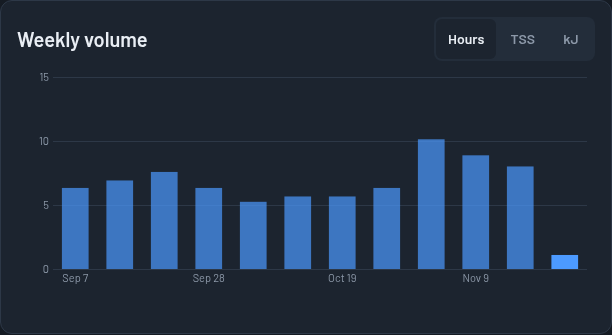
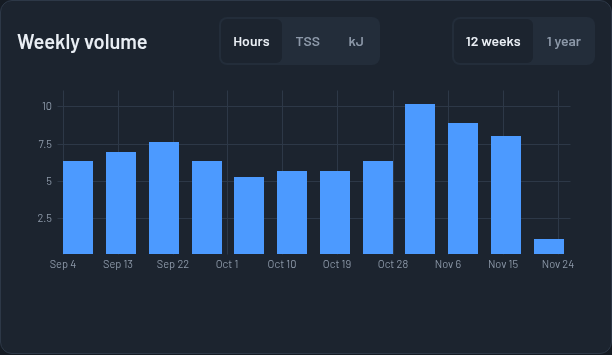
charts: clean-up, workout graph crash fix, docs

diff --git a/docs/walkthrough/capture.js b/docs/walkthrough/capture.js
@@ -125,6 +125,14 @@ async function shots(browser) {
         await page.locator(sel).scrollIntoViewIfNeeded();
         await shotOf(page.locator(sel), name);
     }
+    // a read-out: the mouse over the form chart, 3 weeks back
+    const plot = page.locator('form-card .uc-plot');
+    await plot.scrollIntoViewIfNeeded();
+    const box = await plot.boundingBox();
+    await page.mouse.move(box.x + box.width * 0.62, box.y + box.height * 0.4);
+    await pause(page, 300);
+    await shotOf(page.locator('form-card'), 'training-readout');
+    await page.mouse.move(0, 0);
     // a day with a run from intervals.icu, then planning a workout
     await page.locator('.cal-day.is-today .cal-open').first().click();
     await pause(page, 500);

diff --git a/src/views/workout-graph.js b/src/views/workout-graph.js
@@ -272,6 +272,9 @@ class WorkoutGraph extends HTMLElement {
         const self = this;
         const progress = `<div id="progress" class="progress"></div><div id="progress-active"></div>`;
 
+        // nothing loaded yet (a resize can come first, e.g. on a phone)
+        if(!exists(this.workout?.intervals) && !exists(this.workout?.points)) return;
+
         if(equals(this.type, 'workout')) {
             this.innerHTML = progress +
                 intervalsToGraph(this.workout, this.ftp, this.viewPort);

diff --git a/test/views/workout-graph.test.js b/test/views/workout-graph.test.js
@@ -1,0 +1,12 @@
+/**
+ * @jest-environment jsdom
+ */
+import { WorkoutGraph } from '../../src/views/workout-graph.js';
+
+describe('WorkoutGraph.render', () => {
+    test('a resize before any workout is loaded does not throw', () => {
+        const el = document.createElement('div');
+        const self = Object.assign(el, {type: 'workout', workout: {}, ftp: 250, viewPort: {width: 360, height: 120}, dom: {}});
+        expect(() => WorkoutGraph.prototype.render.call(self)).not.toThrow();
+    });
+});

diff --git a/src/css/components.css b/src/css/components.css
@@ -223,7 +223,7 @@
     display: inline-flex;
     align-items: center;
     justify-content: center;
-    min-height: 40px;
+    min-height: var(--tap);
     min-width: var(--tap);
     padding: 0 var(--space-3);
     border: 0;

diff --git a/docs/walkthrough/README.md b/docs/walkthrough/README.md
@@ -42,8 +42,19 @@ Without a trainer, `npm start` with `?simulate` in the address gives you a simul
 
 <a href="img/training-form.png"><img src="img/training-form.png" alt="The form chart" width="420"></a>
 
-- **Fitness** (42-day load), **fatigue** (7-day load) and **form** (fitness minus fatigue), over the last 90 days.
+- **Fitness** (42-day load), **fatigue** (7-day load) and **form** (fitness minus fatigue), over the last 3 months, a year or all your history.
 - **The dashed part** is a 4-week forecast from your planned workouts. The line below the chart tells you where your plan takes you, for example "form +23 (fresh) on Mon, Dec 21".
+
+### Reading the charts
+
+<a href="img/training-readout.png"><img src="img/training-readout.png" alt="The form chart with the read-out for one day: fitness, fatigue, form and that day's load" width="420"></a>
+
+Every chart on the Training page answers the mouse (or a finger on a phone):
+
+- **Hover** for a read-out of that day, week or duration: the values, and where they came from (the ride behind a power-curve record, the effort behind an FTP estimate, the planned workout on a forecast day).
+- **Drag** across a chart to zoom in; **double-click** to zoom out. The buttons above a chart pick the period.
+- **Click** a day (on a phone: *Open day* in the read-out) to open it in the day dialog.
+- Form and health share their cursor: hovering a day on one shows the same day on the other.
 
 ### This week
 
@@ -57,7 +68,7 @@ Rides, hours, TSS and kJ so far this week, against the same days of last week.
 - **HRV** against your normal range: Garmin's baseline, or else your own last 60 days. Green when it's in range, orange below, blue above.
 - **Resting heart rate** against its 30-day average.
 - **Sleep** (duration and score) and **Body Battery**.
-- **60 days** of HRV, with the normal range shaded, and resting heart rate.
+- HRV with each night's normal range shaded, and resting heart rate: 1 month, 3 months or all.
 
 ### Calendar
 
@@ -100,10 +111,10 @@ Fitness, fatigue and form need a training load (TSS) for every workout, also one
 | <a href="img/progress-volume.png"><img src="img/progress-volume.png" alt="Weekly volume" width="380"></a> | <a href="img/progress-curve.png"><img src="img/progress-curve.png" alt="Power curve" width="380"></a> |
 | <a href="img/progress-zones.png"><img src="img/progress-zones.png" alt="Time in zones" width="380"></a> | <a href="img/progress-ftp.png"><img src="img/progress-ftp.png" alt="FTP trend" width="380"></a> |
 
-- **Weekly volume**: hours, TSS or kJ for the last 12 weeks.
+- **Weekly volume**: hours, TSS or kJ for the last 12 weeks or the year.
 - **Power curve**: your best 5 s, 1, 5, 20 and 60 min over the last 6 weeks against all time, in W or W/kg.
-- **Time in zones**: per week or per month.
-- **FTP trend**: estimated from your best 20 and 60 minutes. When the estimate is more than 5 % off your FTP, the card offers to update it ("Use 213 W").
+- **Time in zones**: per week or per month, the zones stacked.
+- **FTP trend**: estimated from your best 20 and 60 minutes; the read-out names the effort each estimate comes from. When the estimate is more than 5 % off your FTP, the card offers to update it ("Use 213 W").
 
 ### Import .fit files
 

diff --git a/docs/superpowers/roadmap-2026-11.md b/docs/superpowers/roadmap-2026-11.md
@@ -8,9 +8,10 @@ Status: proposal. Each subproject gets its own spec (brainstorm, written spec, p
 - **Done:**
   - 1+2: responsive UI and style system
   - 3a: Training page with form, calendar, plan and progress
-- **Built, waiting for the live check:** 3b, intervals.icu history and the two-way plan, on branch `intervals-3b`.
+- **Built, live-checked except the two-way plan write:** 3b, intervals.icu history and the two-way plan, on branch `intervals-3b`.
 - **Built, waiting for review:** 12a, the identity (Soigneur Studio: name, icon, About, privacy, README, NOTICE, Docker names) and a fully passing test suite (upstream's 50 failing tests fixed, updated or removed), on branch `soigneur-12a` (on top of `garmin-4`).
-- **Built, waiting for the live check:** 4, Garmin health data and activities, plus a load for every workout (power, HR, RPE, estimate), on branch `garmin-4` (on top of `intervals-3b`).
+- **Built and live-checked:** 4, Garmin health data and activities, plus a load for every workout (power, HR, RPE, estimate), on branch `garmin-4` (on top of `intervals-3b`).
+- **Built, waiting for review:** interactive charts on the Training page (uPlot: read-outs, zoom, a shared cursor, click to open a day), on branch `charts-uplot` (on top of `soigneur-12a`). The other pages' charts (the ride chart, workout graphs) can move to uPlot later.
 - **Docs:** walkthrough with screenshots and screencast (`docs/walkthrough/`).
 
 ## What a serious athlete misses today

diff --git a/README.md b/README.md
@@ -30,7 +30,8 @@ Soigneur Studio is based on [Auuki](https://github.com/dvmarinoff/Auuki) by Dimi
 * Light and dark theme, 4K / TV scaling, and statistics rebuilt from the recorded session after a page reload.
 
 **Training page.** Your riding at a glance, on every screen size:
-* *Form*: fitness (42-day), fatigue (7-day) and form, with the last 90 days and a 4-week forecast from your plan.
+* *Form*: fitness (42-day), fatigue (7-day) and form, over 3 months, a year or all your history, and a 4-week forecast from your plan.
+* *Interactive charts* (on [uPlot](https://github.com/leeoniya/uPlot)): hover or touch for a read-out (values, and the ride or effort behind them), drag to zoom, click a day to open it. Form and health share their cursor.
 * *Calendar*: your rides and planned workouts per week (phone) or month. Tap a day to see its rides, plan a workout from your library, or move or remove a planned one. Planned workouts show as planned, done (planned vs. actual TSS) or missed.
 * *Riding the plan*: on a day with a planned workout, the Ride page selects it when the app opens (not over a workout you picked yourself that day, and never during a ride). A saved ride is matched to that day's plan.
 * *Progress*: weekly volume (hours, TSS, kJ), power curve (last 6 weeks vs. all time, W or W/kg), FTP trend (estimated from your best 20 and 60 minutes, with a button to update your FTP when it's more than 5 % off) and time in zones per week or month.
